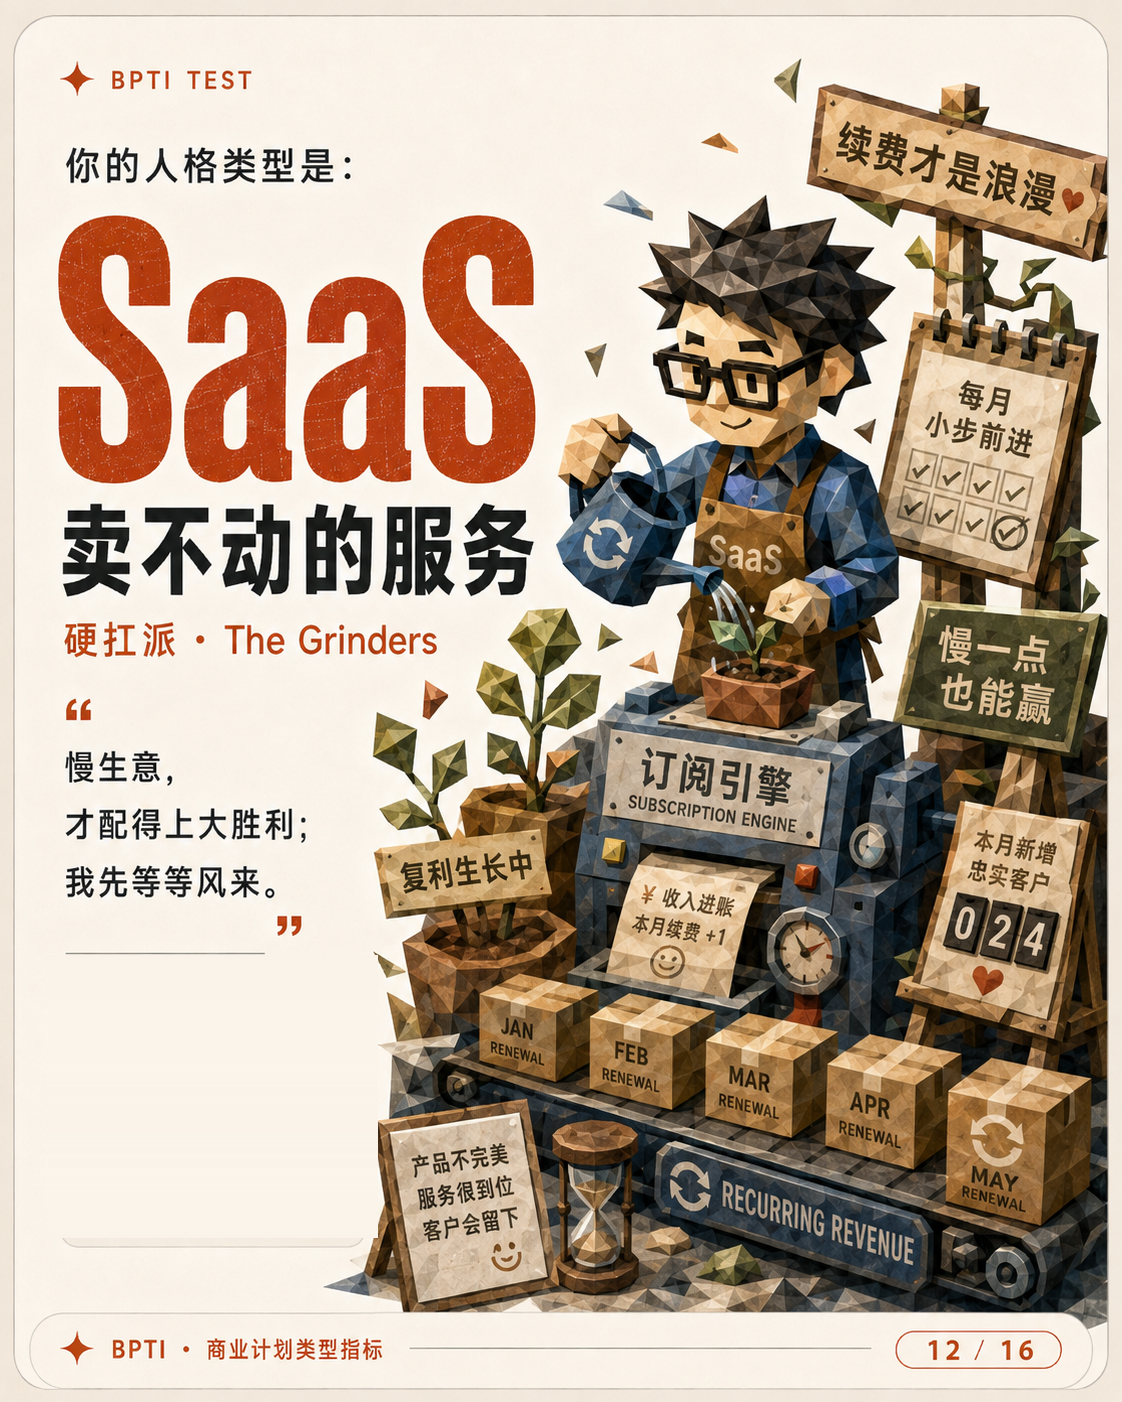
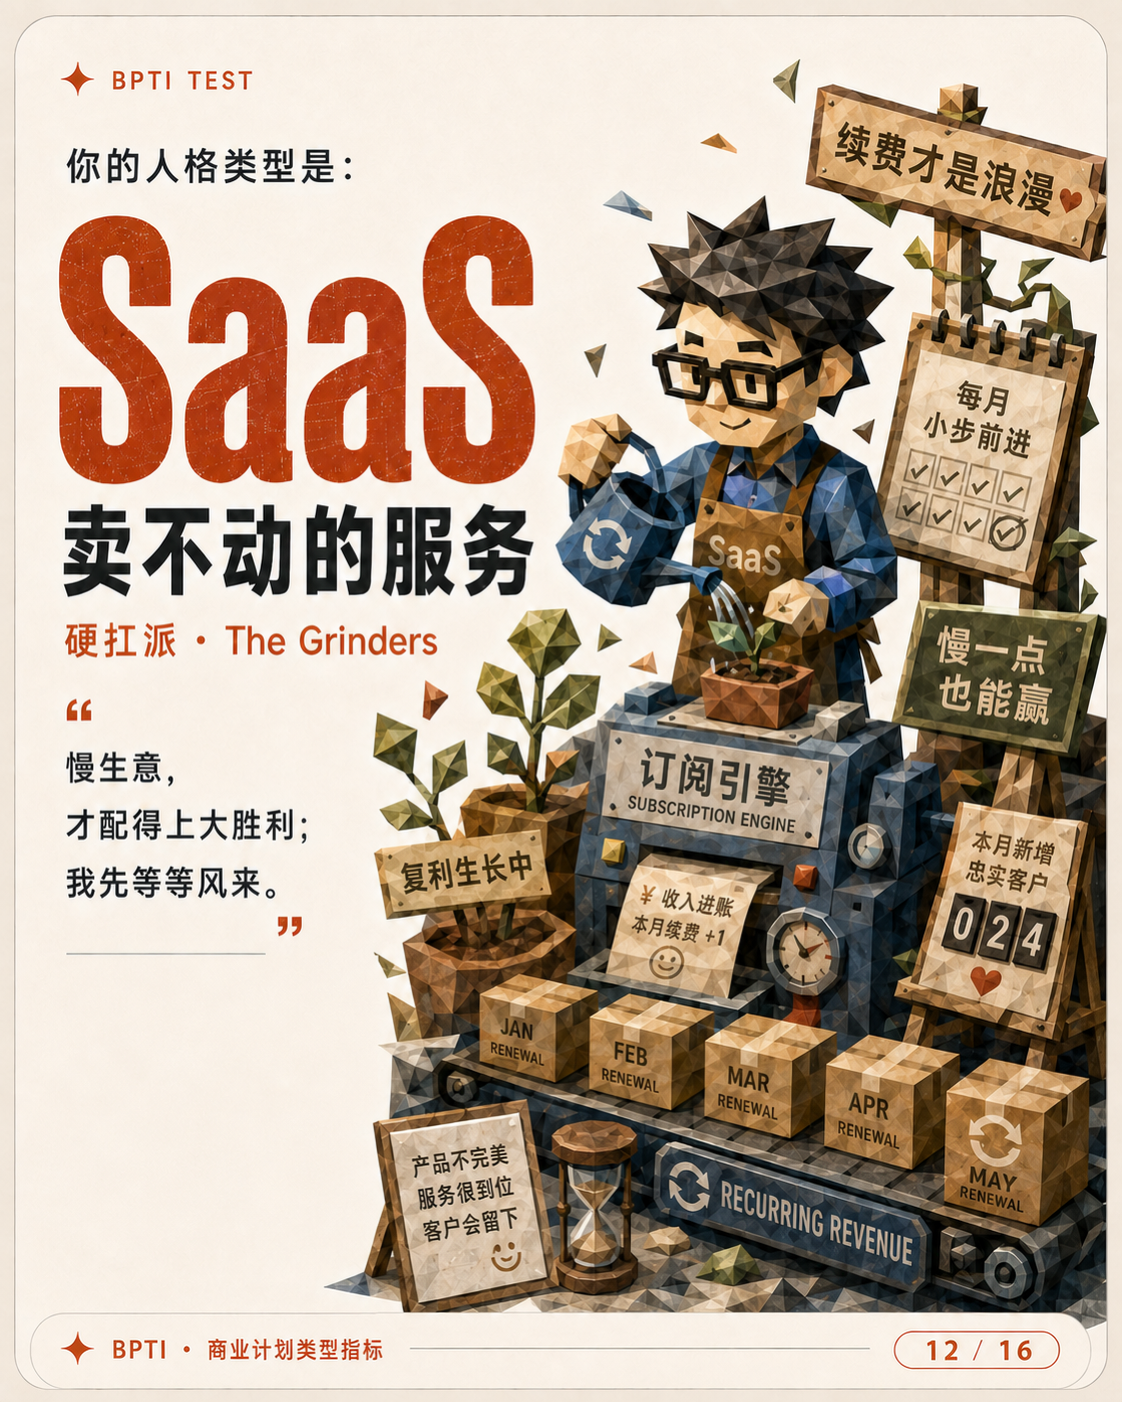
图

diff --git a/src/index.css b/src/index.css
@@ -266,7 +266,7 @@ textarea.input {
 .landing-header { height: 53px; display:flex; align-items:center; gap:12px; border-bottom:1px solid var(--color-divider); }
 .brand { display:flex; align-items:center; gap:9px; font-family:var(--font-heading); font-size:16px; }.brand span { width:26px;height:26px;border:1px solid var(--color-accent);border-radius:7px;display:grid;place-items:center;color:var(--color-accent);font-size:12px; }.landing-subtitle { font-size:12px;color:#75798c; }.landing-header .btn { margin-left:auto; }
 .landing-hero { padding-top:56px; display:grid;grid-template-columns:1.1fr .9fr;gap:56px;align-items:start; }.landing-hero h1 { margin:0;font-family:var(--font-heading);font-size:62px;line-height:1.02;letter-spacing:-.03em;font-weight:500; }.landing-rule { width:64px;height:2px;background:var(--color-accent);margin:22px 0 26px; }.landing-lead { color:#cfd3e5;font-size:17px;margin:0 0 20px; }.landing-pains { display:grid;grid-template-columns:1fr 1fr;gap:14px 26px;max-width:520px; }.landing-pain { display:flex;gap:11px; }.landing-pain i { width:7px;height:7px;flex:none;margin-top:7px;border-radius:2px;background:var(--color-accent); }.landing-pain strong,.landing-pain span { display:block; }.landing-pain strong { font-size:15px;font-weight:400; }.landing-pain span { font-size:13.5px;color:#9397ab;margin-top:2px; }.landing-divider { height:1px;margin:34px 0 30px;max-width:560px;background:linear-gradient(to right,var(--color-divider),transparent); }.landing-help { display:flex;align-items:flex-end;gap:22px; }.landing-help h2 { margin:0;font-family:var(--font-heading);font-size:40px;font-weight:500; }.landing-help p { color:#9397ab;font-size:14px;line-height:1.7;margin:0; }.landing-signin { padding:26px;border-radius:12px;background:rgba(35,37,50,.7);box-shadow:var(--shadow-md);display:flex;flex-direction:column;gap:11px; }.landing-signin h3 { margin:0;font-size:18px;font-weight:500; }.landing-signin > p { margin:-5px 0 5px;font-size:12.5px;color:#75798c; }.landing-signin small { font-size:11px;color:#75798c; }.landing-code { display:flex;gap:8px; }.landing-code .btn { flex:none;white-space:nowrap; }
-.landing-cards { display:grid;grid-template-columns:repeat(3,1fr);gap:16px; }.landing-values { padding-top:16px; }.card { padding:18px 20px;border-radius:12px;background:#232532;box-shadow:var(--shadow-sm); }.card em { display:block;color:var(--color-accent);font-style:normal;font-size:10px;letter-spacing:.1em;margin-bottom:8px; }.card h3 { margin:0 0 10px;font-size:16px;font-weight:500; }.card strong { color:#cfd3e5;font-size:13px;font-weight:400; }.card p { margin:8px 0 0;color:#9397ab;font-size:13px;line-height:1.7; }.landing-features { padding-top:56px; }.landing-section-title { display:flex;align-items:center;gap:16px;margin-bottom:20px; }.landing-section-title h3 { margin:0;font-size:26px;font-weight:500; }.landing-section-title i { height:1px;flex:1;background:linear-gradient(to right,var(--color-divider),transparent); }.landing-features .landing-cards { grid-template-columns:repeat(3,1fr); }.landing-cta { max-width:none;margin-top:56px;padding-top:44px;padding-bottom:44px;background:#23265c;display:grid;grid-template-columns:minmax(0,560px) auto;justify-content:center;gap:48px;align-items:center; }.landing-cta h3 { margin:0;font-size:32px;font-weight:500; }.landing-cta p { color:#cfd3e5;line-height:1.75;font-size:14px; }.landing-cta b { color:var(--color-accent); }.landing-qr { text-align:center; }.landing-qr div { width:156px;height:156px;background:#e9e9ed;color:#23265c;border-radius:12px;display:grid;place-items:center;font-weight:600;line-height:1.4;font-size:20px; }.landing-qr small { display:block;color:#cfd3e5;margin-top:10px;font-size:12px; }.landing footer { padding-top:22px;padding-bottom:40px;text-align:right;color:#595d6c;font-size:11px; }
+.landing-cards { display:grid;grid-template-columns:repeat(3,1fr);gap:16px; }.landing-values { padding-top:16px; }.card { padding:18px 20px;border-radius:12px;background:#232532;box-shadow:var(--shadow-sm); }.card em { display:block;color:var(--color-accent);font-style:normal;font-size:10px;letter-spacing:.1em;margin-bottom:8px; }.card h3 { margin:0 0 10px;font-size:16px;font-weight:500; }.card strong { color:#cfd3e5;font-size:13px;font-weight:400; }.card p { margin:8px 0 0;color:#9397ab;font-size:13px;line-height:1.7; }.landing-features { padding-top:56px; }.landing-section-title { display:flex;align-items:center;gap:16px;margin-bottom:20px; }.landing-section-title h3 { margin:0;font-size:26px;font-weight:500; }.landing-section-title i { height:1px;flex:1;background:linear-gradient(to right,var(--color-divider),transparent); }.landing-features .landing-cards { grid-template-columns:repeat(3,minmax(0,1fr)); padding-left:0; padding-right:0; }.landing-cta { max-width:none;margin-top:56px;padding-top:44px;padding-bottom:44px;background:#23265c;display:grid;grid-template-columns:minmax(0,560px) auto;justify-content:center;gap:48px;align-items:center; }.landing-cta h3 { margin:0;font-size:32px;font-weight:500; }.landing-cta p { color:#cfd3e5;line-height:1.75;font-size:14px; }.landing-cta b { color:var(--color-accent); }.landing-qr { text-align:center; }.landing-qr div { width:156px;height:156px;background:#e9e9ed;color:#23265c;border-radius:12px;display:grid;place-items:center;font-weight:600;line-height:1.4;font-size:20px; }.landing-qr small { display:block;color:#cfd3e5;margin-top:10px;font-size:12px; }.landing footer { padding-top:22px;padding-bottom:40px;text-align:right;color:#595d6c;font-size:11px; }
 .profile-card { padding:18px 20px;border-radius:12px;background:#232532;box-shadow:var(--shadow-sm); }.profile-kicker { font-size:10px;letter-spacing:.1em;text-transform:uppercase;color:var(--color-accent);margin-bottom:10px; }.profile-row { display:grid;grid-template-columns:100px 1fr auto;gap:12px;padding:11px 0;border-bottom:1px solid var(--color-divider);font-size:13px;align-items:center; }.profile-row:last-of-type { border-bottom:0; }.profile-row span,.profile-card p { color:#9397ab; }.profile-row b { font-weight:400;color:#cfd3e5; }.profile-row small,.profile-card small { color:#75798c;font-size:11px; }.profile-summary { padding:12px 0 16px; }.profile-summary b,.profile-card h5 { font-size:14px;font-weight:500; }.profile-summary p,.profile-card p { font-size:12.5px;line-height:1.7;margin:7px 0; }.profile-card h5 { margin:12px 0 0; }.profile-card button { margin-top:14px; }
 @media (max-width: 760px) { .landing-header,.landing-hero,.landing-cards,.landing-features,.landing-cta,.landing footer { padding-left:20px;padding-right:20px; }.landing-hero { grid-template-columns:1fr;gap:30px;padding-top:38px; }.landing-hero h1 { font-size:48px; }.landing-pains,.landing-cards,.landing-features .landing-cards { grid-template-columns:1fr; }.landing-cta { grid-template-columns:1fr;justify-content:initial; }.landing-qr { display:none; }.landing-subtitle { display:none; } }
 
@@ -290,7 +290,7 @@ textarea.input {
 .materials-dialog-close:hover { background:rgba(255,255,255,.06);color:var(--color-text); }
 .materials-table-wrap { overflow-x:auto; }
 .materials-dialog-note { padding:18px 20px;border:1px dashed #4a4e60;border-radius:12px;text-align:center;color:#75798c;font-size:12.5px;line-height:1.7; }
-.poster-backdrop { position:fixed;inset:0;width:100vw;height:100dvh;z-index:70;background:rgba(9,10,18,.76);backdrop-filter:blur(5px);display:grid;place-items:center;padding:24px;overflow:auto;animation:opcFade .2s both; }.poster-dialog { display:flex;flex-direction:column;align-items:center;gap:12px;max-width:100%; }.bpti-poster { position:relative;width:min(calc(70vw - 34px),calc(56dvh - 27px));min-width:180px;aspect-ratio:1122 / 1402;border-radius:16px;box-shadow:0 24px 80px rgba(0,0,0,.55);overflow:hidden; }.bpti-poster-image { display:block;width:100%;height:100%;object-fit:fill; }.bpti-poster-qr { position:absolute;left:10%;bottom:19%;width:20%;min-width:72px;height:auto;pointer-events:none; }.bpti-poster-copy { position:absolute;left:10%;bottom:11.5%;width:35%;color:#2f2a2a;font-size:clamp(8px,1.9vw,13px);font-weight:500;line-height:1.35;white-space:nowrap;pointer-events:none; }.poster-close { position:absolute;right:10px;top:8px;z-index:1;width:32px;height:32px;border:0;border-radius:50%;background:rgba(9,10,18,.56);color:#fff;font-size:24px;line-height:1;cursor:pointer; }.poster-close:hover { background:rgba(9,10,18,.78); }.poster-share { min-width:120px; }
+.poster-backdrop { position:fixed;inset:0;width:100vw;height:100dvh;z-index:70;background:rgba(9,10,18,.76);backdrop-filter:blur(5px);display:grid;place-items:center;padding:24px;overflow:auto;animation:opcFade .2s both; }.poster-dialog { display:flex;flex-direction:column;align-items:center;gap:12px;max-width:100%; }.bpti-poster { position:relative;width:min(calc(70vw - 34px),calc(56dvh - 27px));min-width:180px;aspect-ratio:1122 / 1402;border-radius:16px;box-shadow:0 24px 80px rgba(0,0,0,.55);overflow:hidden; }.bpti-poster-image { display:block;width:100%;height:100%;object-fit:fill; }.poster-close { position:absolute;right:10px;top:8px;z-index:1;width:32px;height:32px;border:0;border-radius:50%;background:rgba(9,10,18,.56);color:#fff;font-size:24px;line-height:1;cursor:pointer; }.poster-close:hover { background:rgba(9,10,18,.78); }.poster-share { min-width:120px; }
 .analysis-empty { min-height: 310px; display: grid; place-items: center; align-content: center; padding: 40px 24px; color: #75798c; text-align: center; animation: opcFade .3s both; }
 .analysis-empty-title { margin-bottom: 8px; color: var(--color-text); font-family: var(--font-heading); font-size: 17px; }
 .analysis-empty-copy { max-width: 360px; font-size: 12.5px; line-height: 1.7; }

diff --git a/scripts/generate-share-download.swift b/scripts/generate-share-download.swift
@@ -1,0 +1,91 @@
+import CoreGraphics
+import CoreText
+import Foundation
+import ImageIO
+import UniformTypeIdentifiers
+
+let projectRoot = URL(fileURLWithPath: FileManager.default.currentDirectoryPath)
+let sourceDirectory = projectRoot.appendingPathComponent("public/share")
+let outputDirectory = projectRoot.appendingPathComponent("public/share_download")
+let qrURL = projectRoot.appendingPathComponent("public/opc-coach-qr.png")
+
+try FileManager.default.createDirectory(at: outputDirectory, withIntermediateDirectories: true)
+
+func loadImage(_ url: URL) throws -> CGImage {
+  guard let source = CGImageSourceCreateWithURL(url as CFURL, nil),
+        let image = CGImageSourceCreateImageAtIndex(source, 0, nil) else {
+    throw NSError(domain: "ShareDownload", code: 1, userInfo: [NSLocalizedDescriptionKey: "无法读取图片：\(url.path)"])
+  }
+  return image
+}
+
+func drawText(_ text: String, at point: CGPoint, context: CGContext) {
+  let font = CTFontCreateWithName("PingFangSC-Medium" as CFString, 30, nil)
+  let attributes: [CFString: Any] = [
+    kCTFontAttributeName: font,
+    kCTForegroundColorAttributeName: CGColor(red: 47 / 255, green: 42 / 255, blue: 42 / 255, alpha: 1),
+  ]
+  let attributedString = NSAttributedString(string: text, attributes: attributes as? [NSAttributedString.Key: Any])
+  let line = CTLineCreateWithAttributedString(attributedString)
+  context.textPosition = point
+  CTLineDraw(line, context)
+}
+
+let qrImage = try loadImage(qrURL)
+
+for number in 1...16 {
+  let posterImage = try loadImage(sourceDirectory.appendingPathComponent("\(number).png"))
+  let width = posterImage.width
+  let height = posterImage.height
+  let adjustedPositionNumbers: Set<Int> = [3, 7, 8, 10, 11, 12, 13, 14]
+  var contentX = adjustedPositionNumbers.contains(number) ? 0.07 : 0.1
+  var qrBottom = adjustedPositionNumbers.contains(number) ? 0.16 : 0.19
+  var firstTextBaseline = adjustedPositionNumbers.contains(number) ? 0.125 : 0.155
+  var secondTextBaseline = adjustedPositionNumbers.contains(number) ? 0.1 : 0.13
+  if number == 12 {
+    contentX = 0.04
+    qrBottom = 0.12
+    firstTextBaseline = 0.1
+    secondTextBaseline = 0.075
+  } else if number == 15 || number == 16 {
+    contentX = 0.04
+    qrBottom = 0.14
+    firstTextBaseline = 0.105
+    secondTextBaseline = 0.08
+  }
+  let colorSpace = CGColorSpaceCreateDeviceRGB()
+  guard let context = CGContext(
+    data: nil,
+    width: width,
+    height: height,
+    bitsPerComponent: 8,
+    bytesPerRow: 0,
+    space: colorSpace,
+    bitmapInfo: CGImageAlphaInfo.premultipliedLast.rawValue
+  ) else {
+    throw NSError(domain: "ShareDownload", code: 2, userInfo: [NSLocalizedDescriptionKey: "无法创建图片画布"])
+  }
+
+  context.draw(posterImage, in: CGRect(x: 0, y: 0, width: width, height: height))
+
+  let qrWidth = CGFloat(width) * 0.2
+  let qrHeight = qrWidth * CGFloat(qrImage.height) / CGFloat(qrImage.width)
+  context.draw(qrImage, in: CGRect(x: CGFloat(width) * contentX, y: CGFloat(height) * qrBottom, width: qrWidth, height: qrHeight))
+
+  drawText("测测你的BP“人格”：", at: CGPoint(x: CGFloat(width) * contentX, y: CGFloat(height) * firstTextBaseline), context: context)
+  drawText("进群获取链接即可开测", at: CGPoint(x: CGFloat(width) * contentX, y: CGFloat(height) * secondTextBaseline), context: context)
+
+  guard let renderedImage = context.makeImage() else {
+    throw NSError(domain: "ShareDownload", code: 3, userInfo: [NSLocalizedDescriptionKey: "无法生成海报图片"])
+  }
+  let outputURL = outputDirectory.appendingPathComponent("\(number).png")
+  guard let destination = CGImageDestinationCreateWithURL(outputURL as CFURL, UTType.png.identifier as CFString, 1, nil) else {
+    throw NSError(domain: "ShareDownload", code: 4, userInfo: [NSLocalizedDescriptionKey: "无法创建输出文件"])
+  }
+  CGImageDestinationAddImage(destination, renderedImage, nil)
+  guard CGImageDestinationFinalize(destination) else {
+    throw NSError(domain: "ShareDownload", code: 5, userInfo: [NSLocalizedDescriptionKey: "无法保存输出文件"])
+  }
+}
+
+print("已生成 16 张分享海报：\(outputDirectory.path)")

diff --git a/src/tabs/Analysis.tsx b/src/tabs/Analysis.tsx
@@ -321,51 +321,12 @@ export function Analysis({ onOpenMaterials, user }: Props) {
 
 function Poster({ imageNo, onClose }: { imageNo: number; onClose: () => void }) {
   const safeImageNo = Number.isInteger(imageNo) && imageNo >= 1 && imageNo <= 16 ? imageNo : 6
-  const [downloading, setDownloading] = useState(false)
 
-  const downloadPoster = async () => {
-    setDownloading(true)
-    try {
-      const loadImage = (src: string) => new Promise<HTMLImageElement>((resolve, reject) => {
-        const image = new Image()
-        image.onload = () => resolve(image)
-        image.onerror = () => reject(new Error(`图片加载失败：${src}`))
-        image.src = src
-      })
-
-      const [posterImage, qrImage] = await Promise.all([
-        loadImage(`/share/${safeImageNo}.png`),
-        loadImage('/opc-coach-qr.png'),
-      ])
-      const canvas = document.createElement('canvas')
-      canvas.width = posterImage.naturalWidth
-      canvas.height = posterImage.naturalHeight
-      const context = canvas.getContext('2d')
-      if (!context) throw new Error('无法创建海报画布')
-
-      context.drawImage(posterImage, 0, 0)
-      const qrWidth = canvas.width * 0.2
-      const qrHeight = qrWidth * (qrImage.naturalHeight / qrImage.naturalWidth)
-      const qrX = canvas.width * 0.1
-      const qrY = canvas.height * (1 - 0.19) - qrHeight
-      context.drawImage(qrImage, qrX, qrY, qrWidth, qrHeight)
-
-      context.fillStyle = '#2f2a2a'
-      context.font = '500 30px "PingFang SC", "Microsoft YaHei", sans-serif'
-      context.fillText('测测你的BP“人格”：', canvas.width * 0.1, canvas.height * 0.845)
-      context.fillText('进群获取链接即可开测', canvas.width * 0.1, canvas.height * 0.87)
-
-      const blob = await new Promise<Blob | null>((resolve) => canvas.toBlob(resolve, 'image/png'))
-      if (!blob) throw new Error('海报生成失败')
-      const url = URL.createObjectURL(blob)
-      const link = document.createElement('a')
-      link.href = url
-      link.download = `bpti-poster-${safeImageNo}.png`
-      link.click()
-      URL.revokeObjectURL(url)
-    } finally {
-      setDownloading(false)
-    }
+  const downloadPoster = () => {
+    const link = document.createElement('a')
+    link.href = `/share_download/${safeImageNo}.png`
+    link.download = `bpti-poster-${safeImageNo}.png`
+    link.click()
   }
 
   return createPortal(
@@ -373,16 +334,9 @@ function Poster({ imageNo, onClose }: { imageNo: number; onClose: () => void }) 
       <div className="poster-dialog" role="dialog" aria-modal="true" aria-label="BPTI 海报" onClick={(e) => e.stopPropagation()}>
         <div className="bpti-poster">
           <button className="poster-close" aria-label="关闭海报" onClick={onClose}>×</button>
-          <img className="bpti-poster-image" src={`/share/${safeImageNo}.png`} alt={`BPTI 海报 ${safeImageNo}`} />
-          <img className="bpti-poster-qr" src="/opc-coach-qr.png" alt="OPC Coach 二维码" />
-          <div className="bpti-poster-copy" aria-hidden="true">
-            <div>测测你的BP“人格”：</div>
-            <div>进群获取链接即可开测</div>
-          </div>
+          <img className="bpti-poster-image" src={`/share_download/${safeImageNo}.png`} alt={`BPTI 海报 ${safeImageNo}`} />
         </div>
-        <button className="btn btn-primary poster-share" onClick={downloadPoster} disabled={downloading}>
-          {downloading ? '生成中…' : '分享海报'}
-        </button>
+        <button className="btn btn-primary poster-share" onClick={downloadPoster}>分享海报</button>
       </div>
     </div>,
     document.body,

diff --git a/src/components/Header.tsx b/src/components/Header.tsx
@@ -4,7 +4,6 @@ import { UserMenu } from './UserMenu'
 
 interface Props {
   onLogout: () => Promise<void> | void
-  onOpenMaterials?: () => void
 }
 
 const TAB_LABELS: { key: Tab; label: string; badge?: (s: ReturnType<typeof getBadgeData>) => string }[] = [
@@ -23,7 +22,7 @@ function getBadgeData(project: Project | null) {
   }
 }
 
-export function Header({ onLogout, onOpenMaterials }: Props) {
+export function Header({ onLogout }: Props) {
   const project = useCurrentProject()
   const tab = useAppStore((s) => s.tab)
   const setTab = useAppStore((s) => s.setTab)
@@ -115,18 +114,6 @@ export function Header({ onLogout, onOpenMaterials }: Props) {
                 >
                   改名
                 </button>
-                <span style={{ fontSize: 11, color: '#595d6c' }}>
-                  项目内容不可编辑，通过补充材料更新
-                </span>
-                {onOpenMaterials && (
-                  <button
-                    className="btn btn-ghost"
-                    style={{ fontSize: 11.5 }}
-                    onClick={onOpenMaterials}
-                  >
-                    材料管理
-                  </button>
-                )}
               </>
             )}
           </div>

diff --git a/src/screens/Login.tsx b/src/screens/Login.tsx
@@ -10,7 +10,7 @@ interface Props {
 
 export function Login({ onAuthenticated }: Props) {
   return <div className="landing">
-    <header className="landing-header"><Brand /><span className="landing-subtitle">一人公司 · 创业陪伴教练</span><a className="btn btn-primary" href="#signin">立即体验</a></header>
+    <header className="landing-header"><Brand /><span className="landing-subtitle">一人公司 · 创业陪伴教练</span></header>
     <section className="landing-hero"><div><h1>OPC<br />COACH</h1><div className="landing-rule" /><p className="landing-lead">你做项目时是否遇到这些问题：</p><div className="landing-pains">{PAINS.map(([title, body]) => <div className="landing-pain" key={title}><i /><div><strong>{title}</strong><span>{body}</span></div></div>)}</div><div className="landing-divider" /><div className="landing-help"><h2>我们帮你梳理！</h2><p>陪你把想法变成<br />可验证、可增长、可落地的项目</p></div></div>
       <Auth onAuthenticated={onAuthenticated} />
     </section>

diff --git a/src/screens/Workbench.tsx b/src/screens/Workbench.tsx
@@ -21,7 +21,7 @@ export function Workbench({ onLogout, user }: Props) {
 
   return (
     <div style={{ minHeight: '100vh', display: 'flex', flexDirection: 'column' }}>
-      <Header onLogout={onLogout} onOpenMaterials={() => setMaterialsOpen(true)} />
+      <Header onLogout={onLogout} />
       <main style={{ flex: 1, padding: '24px 34px 56px' }}>
         {tab === 'analysis' && <Analysis onOpenMaterials={() => setMaterialsOpen(true)} user={user} />}
         {tab === 'plan' && <Plan />}

diff --git a/src/tabs/Materials.tsx b/src/tabs/Materials.tsx
@@ -37,9 +37,6 @@ export function Materials({ open, onClose }: Props) {
         <div className="materials-dialog-header">
           <div>
             <h4 id="materials-dialog-title">材料管理</h4>
-            <div className="materials-dialog-subtitle">
-              {project.files.length} 份材料 · 项目创建时上传
-            </div>
           </div>
           <button className="materials-dialog-close" onClick={onClose} aria-label="关闭材料管理">
             ×
